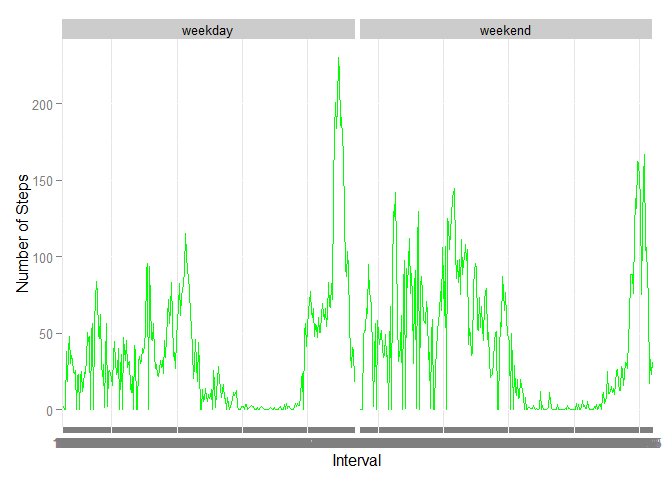
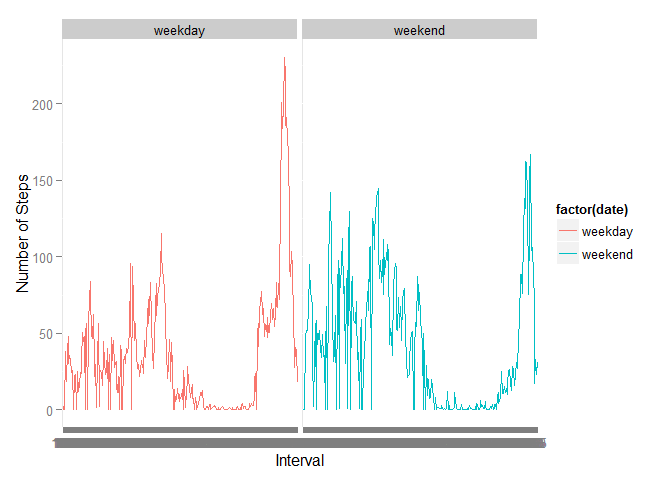
last min changes
last min changes to aes on last graph

diff --git a/PA1_template.html b/PA1_template.html
@@ -270,9 +270,9 @@ head(avgByDayType) #check new df</code></pre>
 ## 4     1000 weekday 37.875
 ## 5     1005 weekday 18.220
 ## 6     1010 weekday 39.078</code></pre>
-<pre class="r"><code>ggplot(avgByDayType, aes(interval, steps)) + geom_line(color = &quot;green&quot;, aes(group=date)) +
+<pre class="r"><code>ggplot(avgByDayType, aes(interval, steps, color=factor(date))) + geom_line(aes(group=date)) +
     facet_grid(. ~ date) + labs(x=&quot;Interval&quot;, y=&quot;Number of Steps&quot;)</code></pre>
[2 lines of base64/hex data omitted]
 </div>
 </div>
 

diff --git a/PA1_template.md b/PA1_template.md
@@ -384,7 +384,7 @@ head(avgByDayType) #check new df
 ```
 
 ```r
-ggplot(avgByDayType, aes(interval, steps)) + geom_line(color = "green", aes(group=date)) +
+ggplot(avgByDayType, aes(interval, steps, color=factor(date))) + geom_line(aes(group=date)) +
     facet_grid(. ~ date) + labs(x="Interval", y="Number of Steps")
 ```
 
